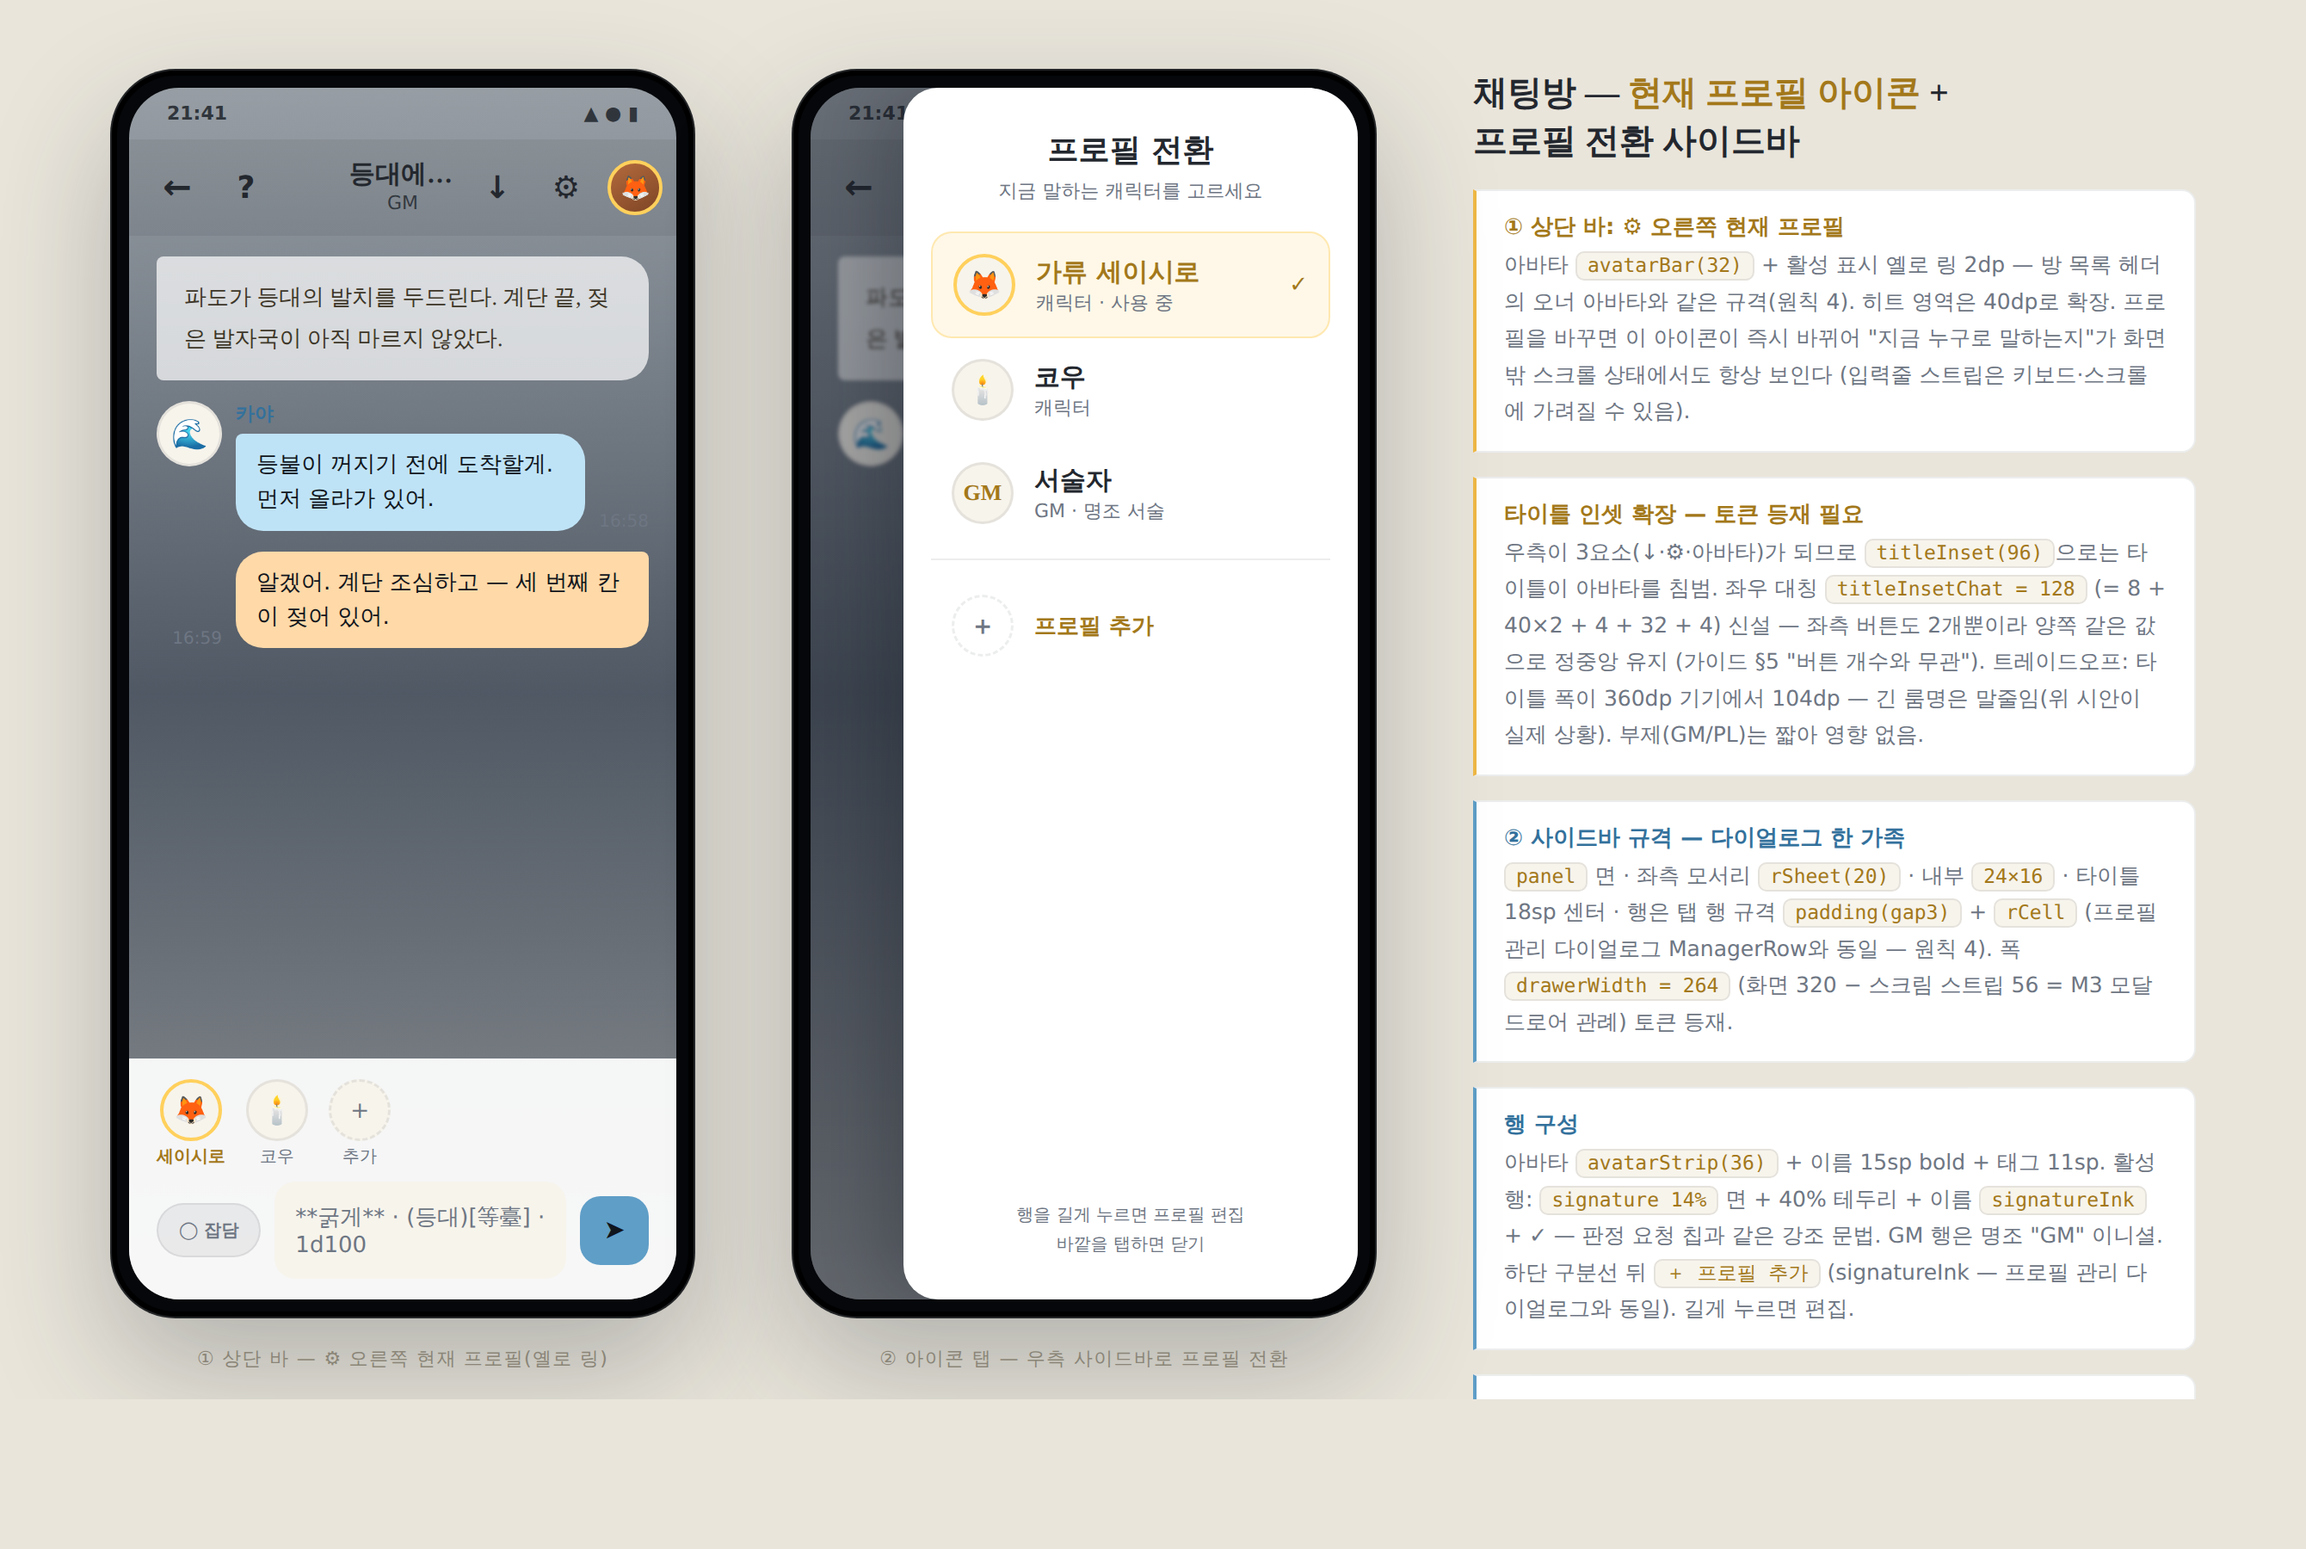
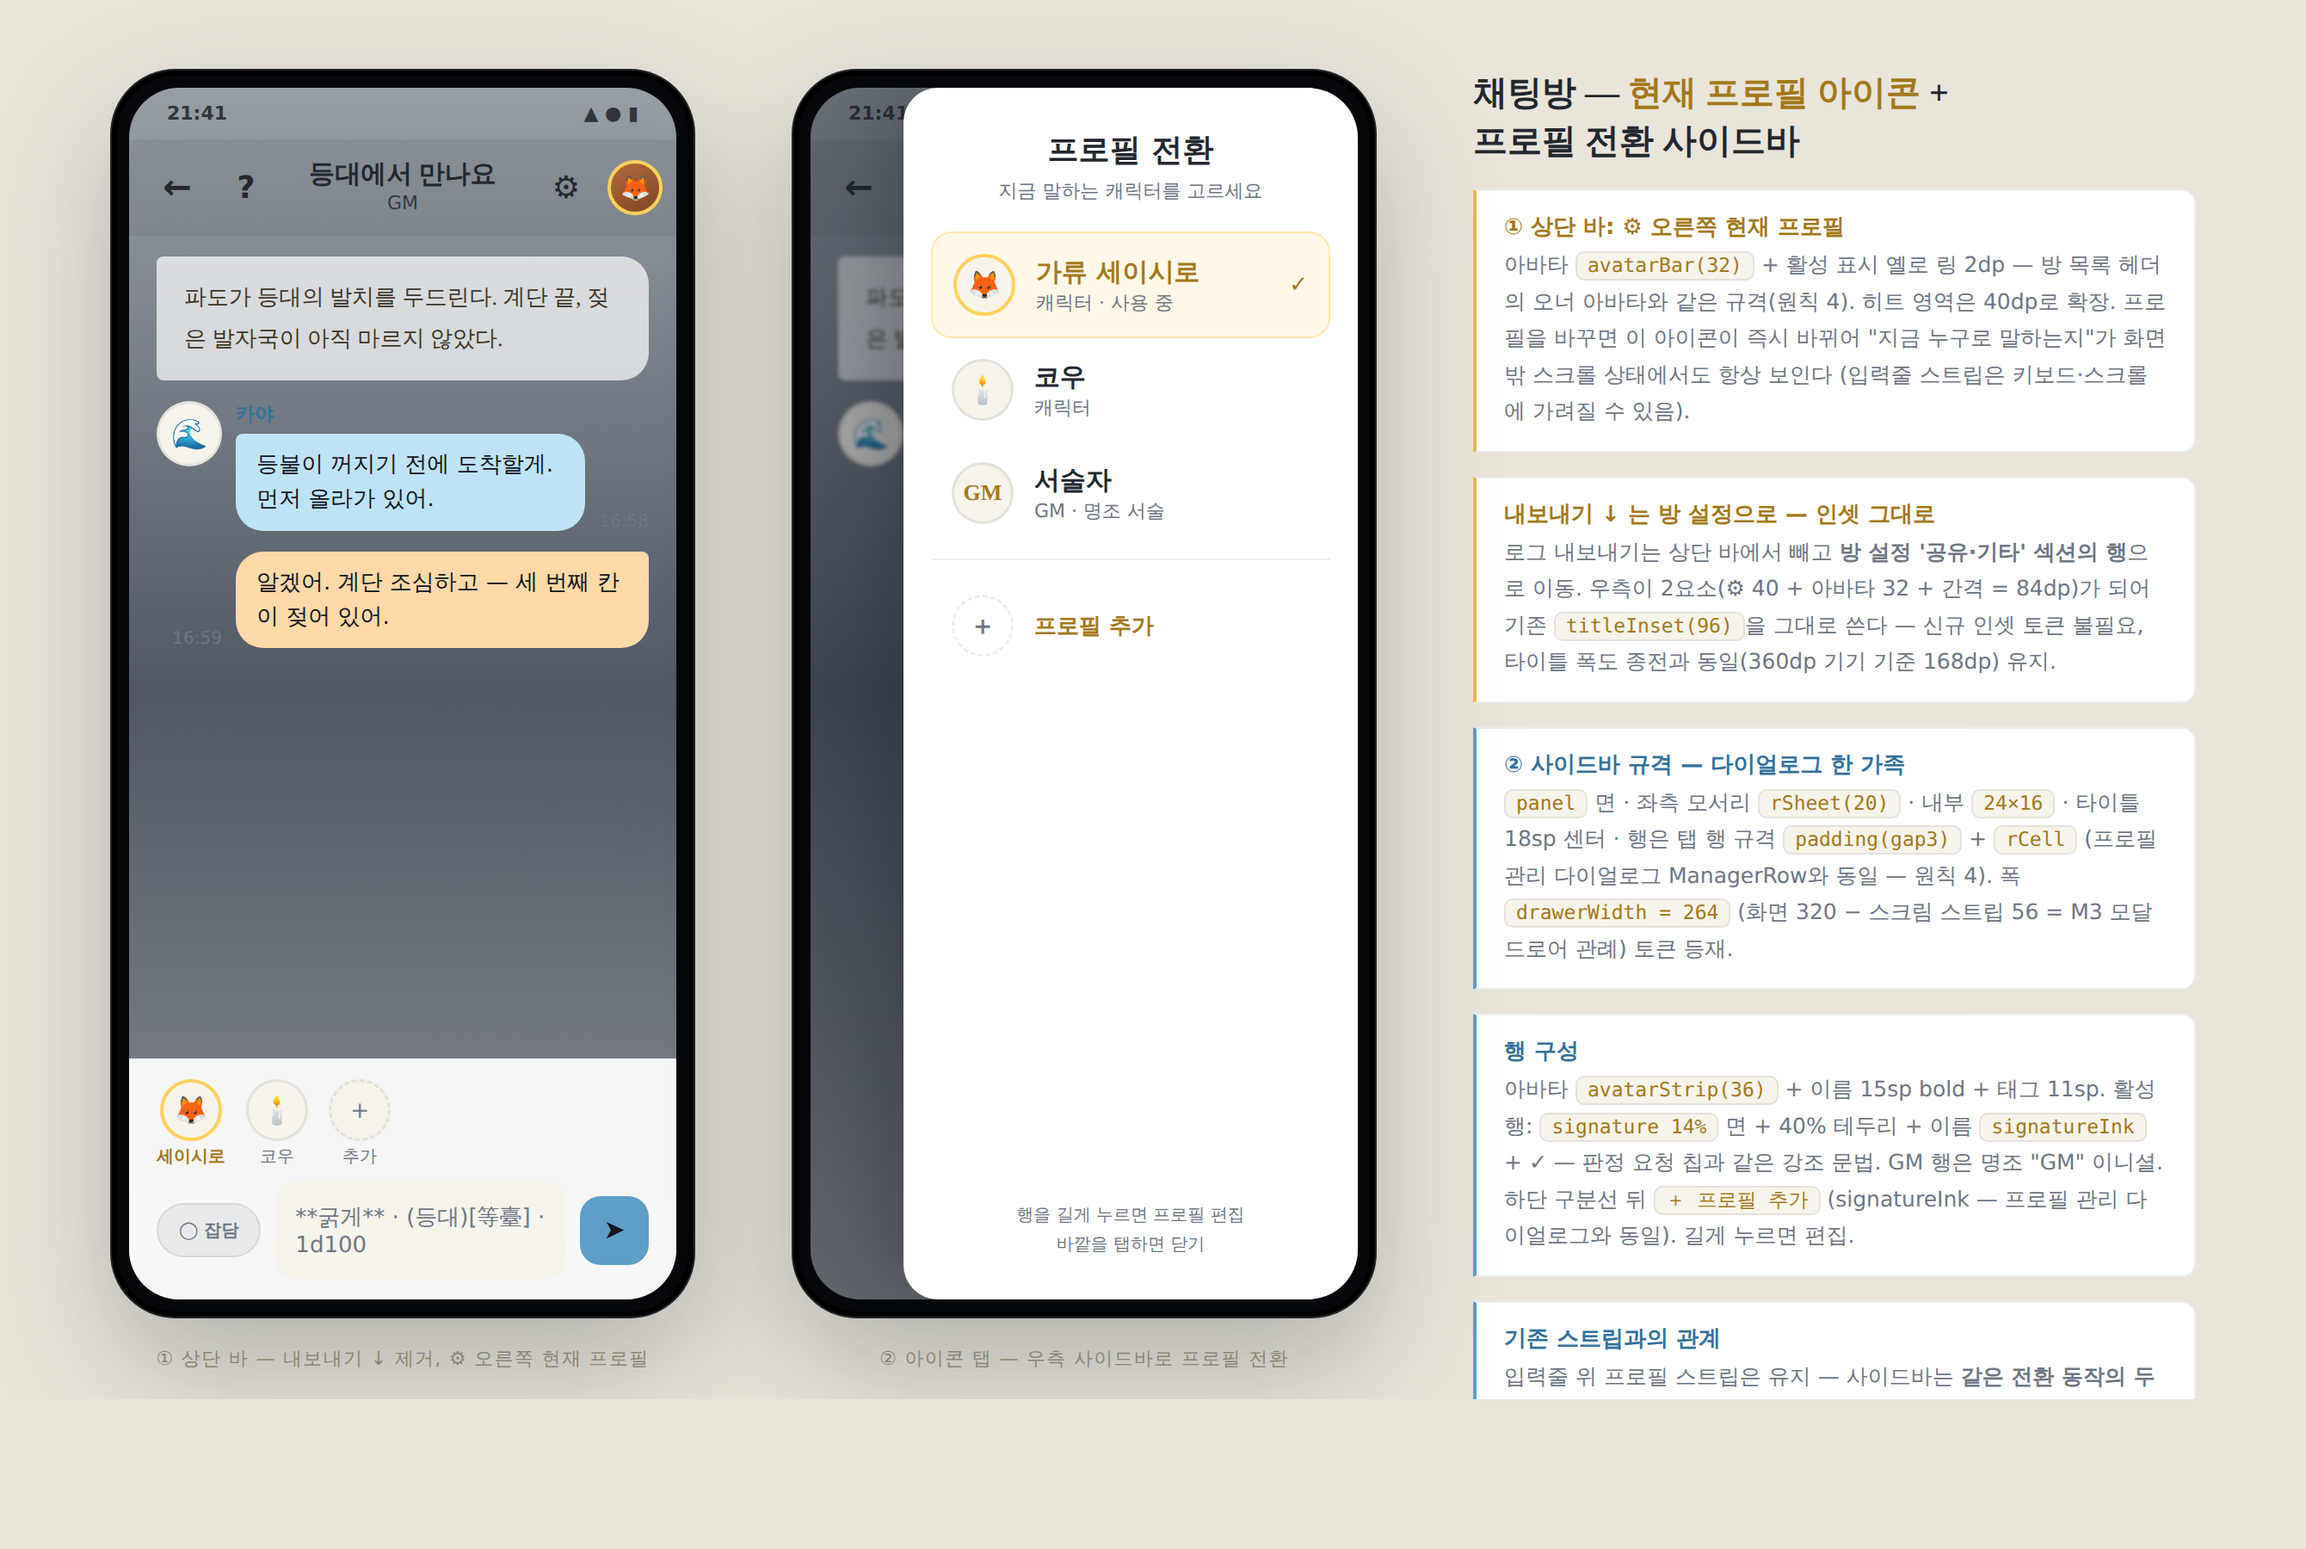
시안 개정 — 내보내기 ↓ 상단 바에서 제거 + 작업지시서
로그 내보내기를 방 설정 '공유·기타' 행으로 이동하기로 확정 — 상단 바 우측이
⚙+아바타 2요소(84dp)가 되어 기존 titleInset(96) 재사용, 신규 인셋 토큰과
타이틀 말줄임 트레이드오프 해소. 신규 수치는 drawerWidth=264 하나.
작업지시서(work-directive-chat-topbar-2026-08-02.md): A 내보내기 이동(모바일·
데스크톱·스펙 §4/§6 갱신) → B 현재 프로필 아이콘 → C 사이드바(커스텀 우측
드로어, ManagerRow 공용화, onSwitch 재사용) + 검수 체크리스트.

Claude-Session: https://claude.ai/code/session_01Lyf9YMsjapJLGsQ8FsfG9Q

Changed region(s): [[0.6194, 0.3111, 0.9601, 0.9022], [0.0929, 0.8711, 0.2787, 0.9022], [0.1239, 0.0933, 0.2168, 0.1244]]

diff --git a/docs/mockups/mockup-chat-profile-sidebar.html b/docs/mockups/mockup-chat-profile-sidebar.html
@@ -8,8 +8,8 @@
 <link href="https://fonts.googleapis.com/css2?family=Noto+Sans+KR:wght@400;500;700;900&family=Gowun+Batang:wght@400;700&family=Noto+Color+Emoji&display=swap" rel="stylesheet">
 <style>
 /* ═══════════════════════════════════════════════════════
-   ui-guidelines.md v1.0 토큰만 사용. 신규 수치 2개는 주석 카드에
-   등재 제안: titleInsetChat=128 · drawerWidth=264.
+   ui-guidelines.md v1.0 토큰만 사용. 신규 수치는 drawerWidth=264 하나
+   (내보내기 ↓ 를 방 설정으로 옮겨 상단 바 인셋은 기존 titleInset(96) 재사용).
    ═══════════════════════════════════════════════════════ */
 :root{
   --bg:#f4f2ec; --panel:#ffffff; --panel-2:#f7f4ec;
@@ -41,7 +41,7 @@ body{
              linear-gradient(178deg,#26374d 0%,#1a2739 42%,#101a28 100%);}
 .statusbar{height:30px;flex-shrink:0;display:flex;align-items:center;justify-content:space-between;padding:0 22px;font-size:11px;color:rgba(20,25,32,.8);font-weight:700}
 
-/* ── 채팅 상단 바: 좌 ←·? / 우 ↓·⚙·프로필 (신규) — 타이틀 정중앙 ── */
+/* ── 채팅 상단 바: 좌 ←·? / 우 ⚙·프로필 — 내보내기 ↓ 는 방 설정으로 이동 ── */
 .appbar{height:var(--appbar-h);flex-shrink:0;position:relative;display:flex;align-items:center;padding:0 var(--sp-2);background:var(--bar-scrim)}
 .icon-btn{width:var(--touch);height:var(--touch);border-radius:var(--r-pill);display:flex;align-items:center;justify-content:center;font-size:18px;font-weight:700;color:var(--ink);flex-shrink:0}
 .appbar .grow{flex:1}
@@ -49,7 +49,7 @@ body{
 .me-avatar{width:var(--avatar-bar);height:var(--avatar-bar);border-radius:var(--r-pill);margin-left:var(--sp-1);flex-shrink:0;
   background:linear-gradient(150deg,#b46a3c,#7e4526);display:flex;align-items:center;justify-content:center;
   font-size:14px;border:2px solid var(--postit)}
-.title-lock{position:absolute;left:128px;right:128px;top:0;bottom:0;display:flex;flex-direction:column;align-items:center;justify-content:center;gap:var(--sp-1);pointer-events:none}
+.title-lock{position:absolute;left:96px;right:96px;top:0;bottom:0;display:flex;flex-direction:column;align-items:center;justify-content:center;gap:var(--sp-1);pointer-events:none}
 .bar-title{font-family:'Gowun Batang',serif;font-size:15px;font-weight:700;color:var(--ink);line-height:1;white-space:nowrap;overflow:hidden;text-overflow:ellipsis;max-width:100%}
 .bar-sub{font-size:11px;font-weight:500;color:var(--ink-sub);line-height:1}
 
@@ -122,7 +122,6 @@ body{
         <div class="icon-btn" style="font-size:20px">←</div>
         <div class="icon-btn">?</div>
         <div class="grow"></div>
-        <div class="icon-btn">↓</div>
         <div class="icon-btn">⚙</div>
         <div class="me-avatar">🦊</div>
         <div class="title-lock">
@@ -160,7 +159,7 @@ body{
         </div>
       </div>
     </div>
-    <div class="cap">① 상단 바 — ⚙ 오른쪽 현재 프로필(옐로 링)</div>
+    <div class="cap">① 상단 바 — 내보내기 ↓ 제거, ⚙ 오른쪽 현재 프로필</div>
   </div>
 
   <!-- ② 프로필 아이콘 탭 → 우측 사이드바 -->
@@ -171,7 +170,6 @@ body{
         <div class="icon-btn" style="font-size:20px">←</div>
         <div class="icon-btn">?</div>
         <div class="grow"></div>
-        <div class="icon-btn">↓</div>
         <div class="icon-btn">⚙</div>
         <div class="me-avatar">🦊</div>
         <div class="title-lock">
@@ -240,13 +238,11 @@ body{
     </div>
 
     <div class="note y">
-      <h4>타이틀 인셋 확장 — 토큰 등재 필요</h4>
-      <p>우측이 3요소(↓·⚙·아바타)가 되므로 <code>titleInset(96)</code>으로는
-      타이틀이 아바타를 침범. 좌우 대칭 <code>titleInsetChat = 128</code>
-      (= 8 + 40×2 + 4 + 32 + 4) 신설 — 좌측 버튼도 2개뿐이라 양쪽 같은 값으로
-      정중앙 유지 (가이드 §5 "버튼 개수와 무관"). 트레이드오프: 타이틀 폭이
-      360dp 기기에서 104dp — 긴 룸명은 말줄임(위 시안이 실제 상황).
-      부제(GM/PL)는 짧아 영향 없음.</p>
+      <h4>내보내기 ↓ 는 방 설정으로 — 인셋 그대로</h4>
+      <p>로그 내보내기는 상단 바에서 빼고 <b>방 설정 '공유·기타' 섹션의 행</b>으로
+      이동. 우측이 2요소(⚙ 40 + 아바타 32 + 간격 = 84dp)가 되어 기존
+      <code>titleInset(96)</code>을 그대로 쓴다 — 신규 인셋 토큰 불필요,
+      타이틀 폭도 종전과 동일(360dp 기기 기준 168dp) 유지.</p>
     </div>
 
     <div class="note">

diff --git a/docs/reviews/work-directive-chat-topbar-2026-08-02.md b/docs/reviews/work-directive-chat-topbar-2026-08-02.md
@@ -1,0 +1,101 @@
+# 작업지시서 — 채팅 상단 바 개편: 내보내기 이동 · 현재 프로필 아이콘 · 전환 사이드바
+
+시안: `docs/mockups/mockup-chat-profile-sidebar.html`(.png) — 확정 기준.
+디자인 기준: `docs/ui-guidelines.md` v1.0. 대상 버전: v0.11.2 이후 main.
+작업은 A→B→C 순서를 권장한다 (A가 상단 바 자리를 비워야 B의 인셋 계산이 성립).
+
+---
+
+## A. 로그 내보내기 ↓ 를 방 설정 안으로 이동
+
+**목적**: 상단 바 아이콘 수를 줄여 현재 프로필 아이콘 자리를 만든다.
+내보내기는 매 세션 쓰는 기능이 아니므로 설정 진입이 자연스럽다.
+
+1. **ChatScreen.kt** — 상단 바의 ↓ IconButton(현재 :468–476)과
+   `exportLauncher`(:403–415) 관련 코드를 제거. `ActivityResultContracts.CreateDocument`
+   임포트 등 이 변경으로 고아가 되는 임포트도 함께 정리.
+2. **RoomSettingsScreen.kt** — "공유·기타" 섹션(:266)의 "방 공유 · 초대 코드" 행
+   아래에 SettingRow 추가:
+   - title: `"로그 내보내기 (HTML)"`
+   - subtitle: `"전체 대화를 종이 톤 HTML 파일로 저장합니다"`
+   - onClick: `CreateDocument("text/html")` 런처 실행 —
+     파일명 `"${room?.name ?: "PbP"}_log.html"`, 성공/실패 토스트는
+     기존 ChatScreen 문구 그대로 ("HTML 로그를 저장했습니다" / "저장에 실패했습니다")
+3. **RoomSettingsViewModel** — `exportTo(uri)` 이식. 기존 ChatViewModel의
+   구현(repo.allMessages + LogExporter 경로)을 그대로 옮기거나, 공용 로직이면
+   호출만 추가. ChatViewModel 쪽이 이 변경으로 고아가 되면 제거.
+4. **문서 갱신** — `docs/PbP-design-spec.md` §4("우상단: 로그 내보내기 아이콘,
+   방 설정 아이콘")와 §6("진입: 채팅방 우상단 ↓ 아이콘, 방 설정 메뉴")을
+   "진입: 방 설정 메뉴"로 수정.
+5. **데스크톱 패리티(§7)** — PC 채팅 상단의 내보내기 진입점도 동일하게 방 설정
+   오버레이로 이동(같은 커밋 또는 후속 커밋, PR 본문에 명시).
+
+검증: 방 설정에서 내보내기 실행 → 파일 저장·토스트 확인. 채팅 상단 바에 ↓ 없음.
+
+## B. 상단 바 현재 프로필 아이콘 (⚙ 오른쪽)
+
+**규격 (시안 ①)**
+- 위치: ⚙ IconButton 오른쪽, 앞에 `Spacer(gap1)`.
+- `Avatar(emoji/imagePath of 활성 프로필, size = PbpDimens.avatarBar /*32*/,
+  ringColor = tokens.signature)` — 링 2dp는 Avatar의 기존 ringColor 경로 사용.
+  방 목록 헤더 오너 아바타와 동일 규격 (원칙 4).
+- 히트 영역: 40dp — `Modifier.size(PbpDimens.touchTarget)` Box 중앙에 32dp 아바타.
+- 데이터: `profiles.find { it.id == activeId }` — InputZone과 같은 소스.
+  활성 프로필 전환 시 즉시 반영(상태 승격 필요 시 ChatScreen 레벨 state 사용).
+- 인셋: 좌 ←·?(88dp) / 우 ⚙·아바타(84dp) 모두 96 이내 —
+  **기존 `titleInset` 그대로, 신규 토큰 없음.**
+- 탭 동작: C의 사이드바 열기.
+
+## C. 프로필 전환 사이드바 (시안 ②)
+
+**토큰 등재 (선행)** — `Tokens.kt`에 `drawerWidth = 264.dp`
+(화면 320 − 스크림 스트립 56, M3 모달 드로어 관례) + 가이드 4장 고정 규격에 1줄.
+
+**구조** — M3 ModalNavigationDrawer는 좌측 고정이므로 커스텀 오버레이로 구현:
+```
+if (showProfileDrawer) {
+  Box(fillMaxSize) {
+    스크림: fillMaxSize().background(rgba(30,35,45,.38) → 토큰: 기존 딤과 통일)
+            .clickable { close } // 바깥 탭 닫기
+    드로어: align(CenterEnd), width = drawerWidth, fillMaxHeight,
+            background(panel), RoundedCornerShape(topStart=rSheet, bottomStart=rSheet),
+            padding(vertical=gap5, horizontal=gap4)
+  }
+}
++ BackHandler(showProfileDrawer) { close }
++ 등장/퇴장: slideInHorizontally { it } / slideOutHorizontally { it } (AnimatedVisibility)
+```
+스크림 색은 모바일 다이얼로그 딤과 같은 값을 쓰고, 하드코딩하지 말 것(§2) —
+기존 딤 색이 리터럴이면 이번에 토큰으로 승격.
+
+**콘텐츠 (위→아래)**
+1. 타이틀 "프로필 전환" 18sp bold 센터 + 부제 "지금 말하는 캐릭터를 고르세요" 11sp inkDim 센터
+2. `Spacer(gap4)`
+3. 프로필 행 목록 (스크롤 가능, `verticalScroll`):
+   - 행 규격 = 프로필 관리 다이얼로그 ManagerRow와 동일: `padding(gap3)` + `rCell`
+     클립, 아바타 `avatarStrip(36)` + 이름 15sp bold + 태그 11sp inkDim.
+     **ManagerRow를 공용 컴포저블로 승격해 재사용**할 것 (복제 금지, 원칙 4).
+   - 태그: 캐릭터 = "캐릭터"(활성이면 "캐릭터 · 사용 중"), GM = "GM · 명조 서술".
+   - 활성 행 강조: `signature.copy(alpha=.14f)` 면 + `signature.copy(alpha=.4f)`
+     1dp 테두리 + 이름 `signatureInk` + 우측 ✓ 13sp `signatureInk`
+     (판정 요청 칩과 같은 강조 문법).
+   - 탭 = `onSwitch(profile)` 재사용 후 닫기. 길게 = `onEditProfile` 후 닫기.
+4. 구분선 `line` 1dp, 상하 `gap2`
+5. "＋ 프로필 추가" 행: 점선 원(avatarStrip, dashedBorder line) + 13sp bold
+   `signatureInk` — `onAddProfile` 재사용 후 닫기.
+6. 하단 고정 힌트: "행을 길게 누르면 프로필 편집 · 바깥을 탭하면 닫기" 10sp inkDim 센터.
+
+**상태·재사용** — `showProfileDrawer`는 ChatScreen state. 전환·편집·추가 콜백은
+InputZone에 이미 내려가는 것과 같은 람다를 공유(동작 분기 금지). 입력줄 프로필
+스트립은 그대로 유지 — 사이드바는 같은 동작의 두 번째 진입점이다.
+
+## D. 검수 체크리스트
+
+- [ ] 채팅 상단 바: ← ? | 타이틀(정중앙, titleInset 96) | ⚙ 아바타 — ↓ 없음
+- [ ] 아바타가 활성 프로필과 즉시 동기화 (스트립에서 바꿔도, 사이드바에서 바꿔도)
+- [ ] 방 설정 "공유·기타"에 내보내기 행, 동작·토스트 기존과 동일
+- [ ] 사이드바: 바깥 탭·뒤로 버튼 닫기, 행 탭 전환+닫기, 길게 편집, ＋ 추가
+- [ ] 신규 리터럴 0건 (`Color(0x` grep — 스크림은 토큰), 신규 수치는 drawerWidth만
+- [ ] 모든 sp가 18/15/13/11/10 안, 탭 요소 히트 ≥40
+- [ ] 스펙 문서 §4·§6 갱신, 데스크톱 내보내기 진입점 이동 여부 명시
+- [ ] 다크 모드 확인 (토큰 스왑만으로 성립해야 함 — isDark 분기 금지)
